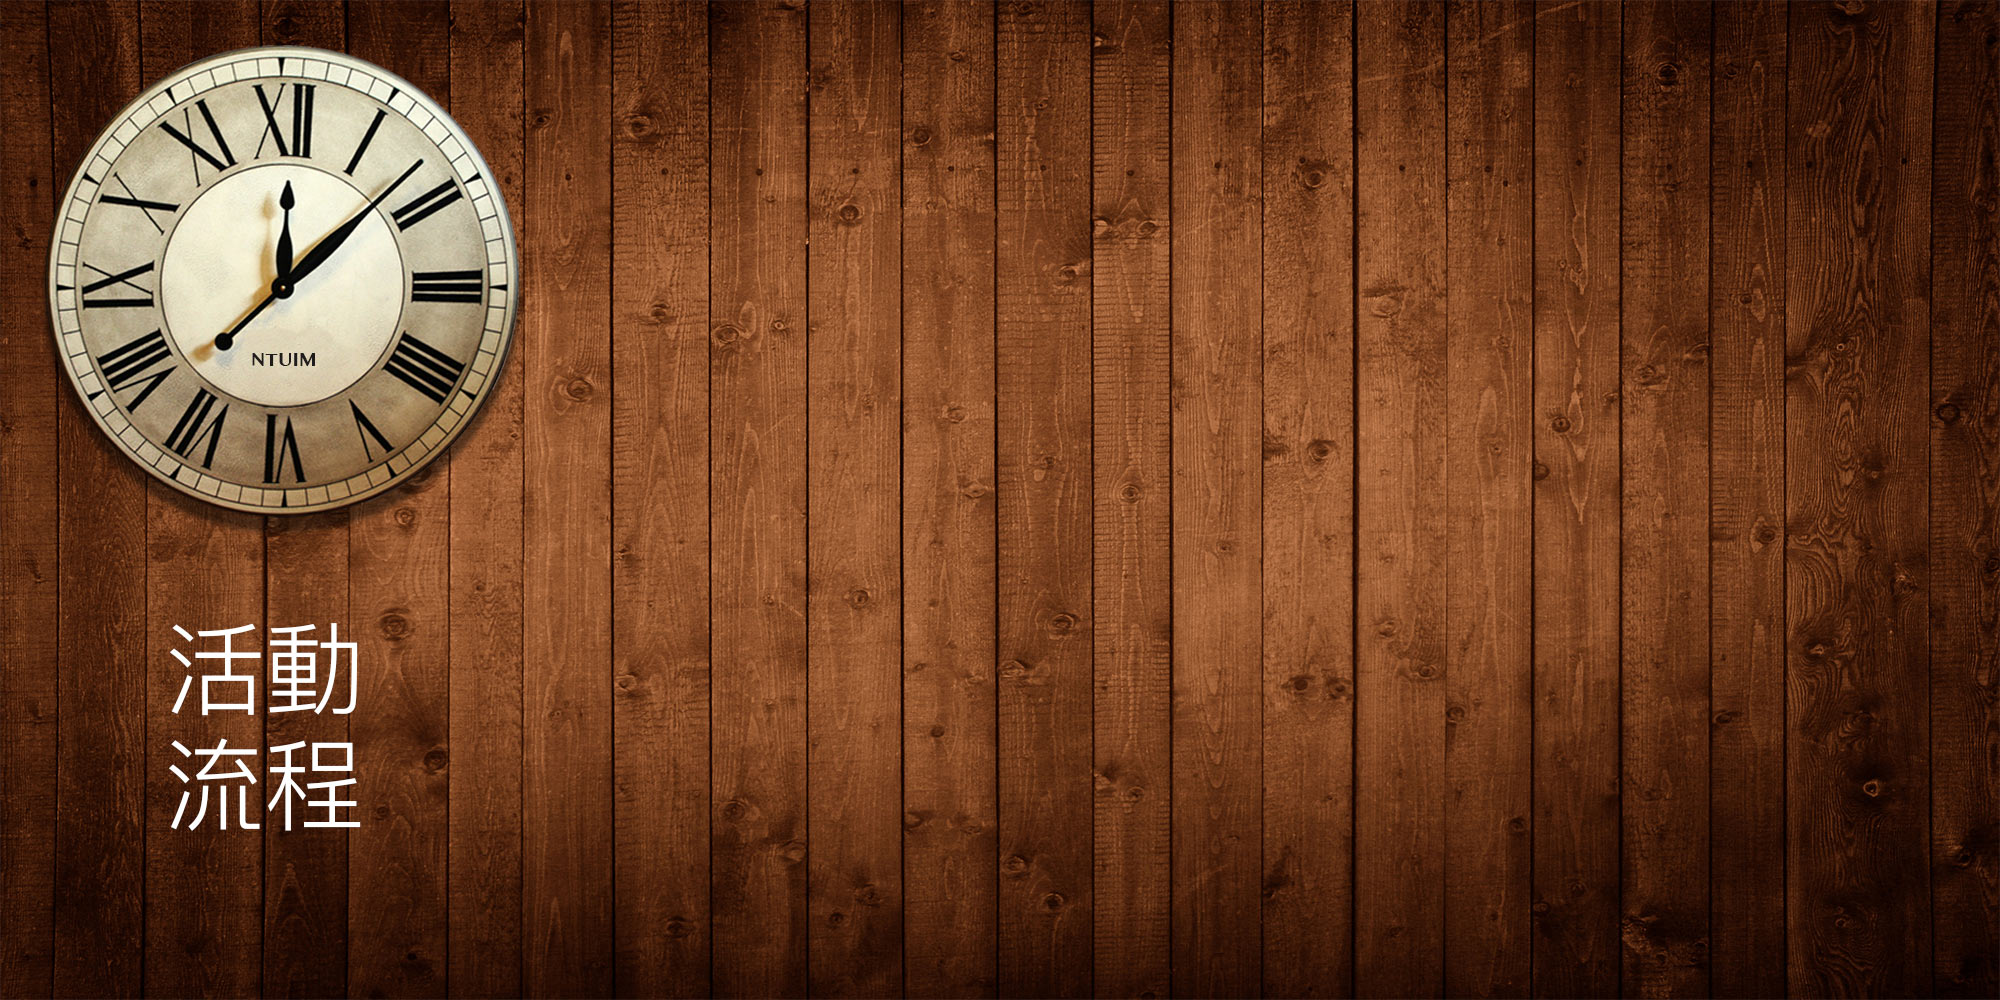
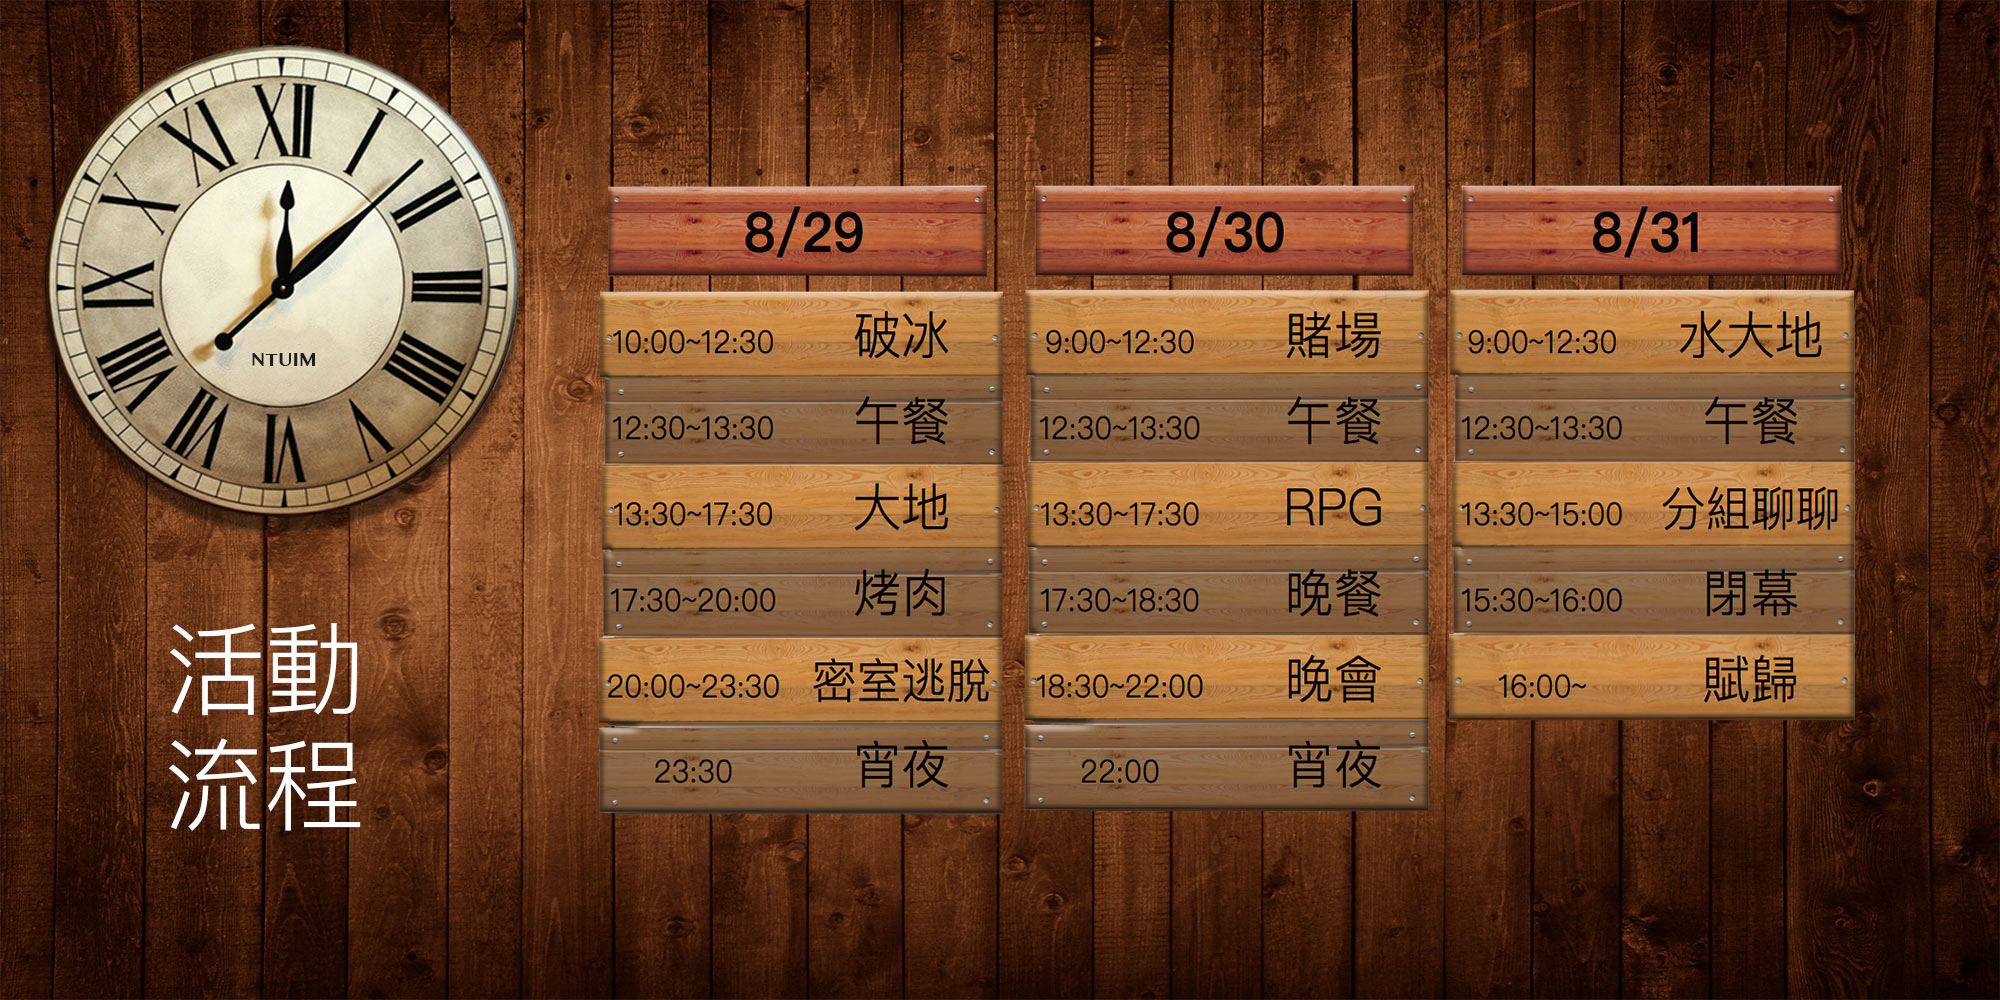
prolog 4.5 schedule update

Changed region(s): [[0.279, 0.186, 0.93, 0.837]]

diff --git a/css/prolog.css b/css/prolog.css
@@ -142,7 +142,7 @@ body {
     background-repeat: no-repeat;
 }
 
-#schedule-img-space {
+/* #schedule-img-space {
     width: 68vw;
     height: 35vw;
     position: relative;
@@ -155,7 +155,7 @@ body {
     width: 65vw;
     height: 35vw;
     position: relative;
-}
+} */
 
 #first-footer {
     width: 100%;

diff --git a/application/views/main.php b/application/views/main.php
@@ -89,9 +89,9 @@ echo form_open('user/register' , $attributes);
 	</div> -->
 	<a id='schedule' class="anchor" name="schedule"></a>
 	<div id="schedule-space">
-		<div id="schedule-img-space">
+		<!-- <div id="schedule-img-space">
 			<img src="prolog-x/image/schedule.png" id="schedule-form">
-		</div>
+		</div> -->
 	</div>
 	<div id="first-footer">
 		<div id="carousel-example-generic" class="carousel slide" data-ride="carousel">
